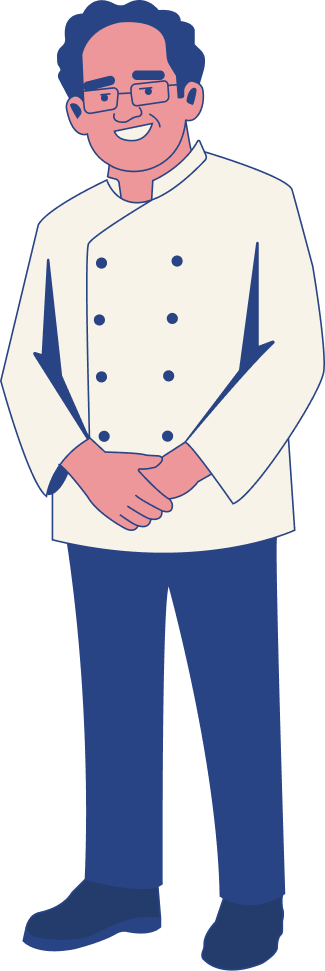
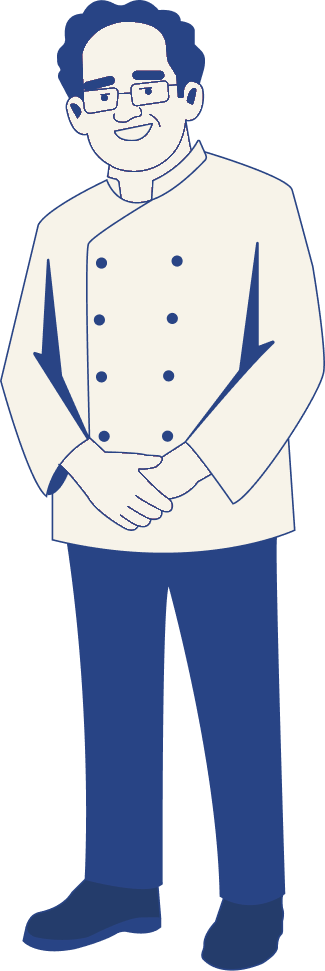
dialogue

Changed region(s): [[0.1846, 0.0, 0.6462, 0.2163], [0.1846, 0.4325, 0.6462, 0.5561]]

diff --git a/src/lib/kitchen/KitchenScene.svelte b/src/lib/kitchen/KitchenScene.svelte
@@ -217,7 +217,7 @@
 
   <div
     class="floor-layer reveal-layer"
-    style={`height: ${scenePx(floorHeight * sceneScale)}; background-size: ${scenePx(floorTileWidth * sceneScale)} ${scenePx(floorHeight * sceneScale)}; background-position-x: ${scenePx(-cameraX)}; --reveal-delay: 160ms; --reveal-duration: 1120ms;`}
+    style={`height: ${scenePx(floorHeight * sceneScale)}; background-size: ${scenePx(floorTileWidth * sceneScale)} ${scenePx(floorHeight * sceneScale)}; background-position-x: ${scenePx(-cameraX)}; --reveal-delay: 160ms; --reveal-duration: 320ms;`}
   ></div>
 
   <div
@@ -382,18 +382,13 @@
 
   .reveal-layer {
     opacity: 0;
-    -webkit-mask-image: linear-gradient(90deg, #000 0 62%, transparent 78%);
-    mask-image: linear-gradient(90deg, #000 0 62%, transparent 78%);
-    -webkit-mask-repeat: no-repeat;
-    mask-repeat: no-repeat;
-    -webkit-mask-size: 260% 100%;
-    mask-size: 260% 100%;
-    -webkit-mask-position: 140% 0;
-    mask-position: 140% 0;
+    scale: 0;
+    transform-origin: 50% 50%;
+    will-change: transform, scale, opacity;
   }
 
   .kitchen-stage.is-loaded .reveal-layer {
-    animation: layerReveal var(--reveal-duration, 820ms) cubic-bezier(0.19, 1, 0.22, 1) var(--reveal-delay, 0ms) forwards;
+    animation: layerReveal var(--reveal-duration, 360ms) cubic-bezier(0.22, 1, 0.36, 1) var(--reveal-delay, 0ms) forwards;
   }
 
   .parallax-layer img {
@@ -413,6 +408,7 @@
     bottom: 0;
     background-image: url('/assets/pavimento_tile.svg');
     background-repeat: repeat-x;
+    transform-origin: 50% 50%;
     pointer-events: none;
   }
 
@@ -435,7 +431,8 @@
   .scene-title span {
     display: inline-block;
     opacity: 0;
-    transform: translate3d(-0.42em, 0.24em, 0) scale(0.82);
+    transform: scale(0.82);
+    transform-origin: 50% 50%;
   }
 
   .kitchen-stage.is-loaded .scene-title span {
@@ -454,11 +451,12 @@
 
   .reveal-object {
     opacity: 0;
-    transform: translate3d(-28px, 18px, 0) scale(0.96);
+    transform: scale(0.92);
+    transform-origin: 50% 50%;
   }
 
   .kitchen-stage.is-loaded .reveal-object {
-    animation: objectPopIn 440ms cubic-bezier(0.22, 1, 0.36, 1) var(--reveal-delay, 0ms) forwards;
+    animation: objectPopIn 360ms cubic-bezier(0.22, 1, 0.36, 1) var(--reveal-delay, 0ms) forwards;
   }
 
   .chef-button img {
@@ -482,8 +480,7 @@
     font-family: var(--font-text);
     text-align: left;
     opacity: 0;
-    transform: translate3d(-14px, 8px, 0);
-    transition: opacity 220ms ease, transform 260ms cubic-bezier(0.22, 1, 0.36, 1);
+    transition: opacity 1ms linear 220ms;
     pointer-events: none;
   }
 
@@ -497,6 +494,12 @@
     background: var(--color-border-primary);
     clip-path: polygon(0 50%, 100% 0, 100% 100%);
     content: '';
+    opacity: 0;
+    scale: 0.72;
+    transform-origin: 100% 50%;
+    transition:
+      opacity 1ms linear 80ms,
+      scale 220ms cubic-bezier(0.22, 1, 0.36, 1) 80ms;
   }
 
   .speech-bubble-copy {
@@ -515,6 +518,9 @@
     font-weight: 400;
     line-height: 1.2;
     word-break: break-word;
+    -webkit-clip-path: inset(0 100% 0 0);
+    clip-path: inset(0 100% 0 0);
+    will-change: clip-path;
   }
 
   .speech-bubble-meta {
@@ -522,7 +528,8 @@
     z-index: 1;
     display: flex;
     align-items: center;
-    min-height: 43px;
+    min-height: 46px;
+    margin-top: -3px;
     padding: 0 clamp(18px, 1.5vw, 19px);
     border-radius: 0 0 var(--radius-s) var(--radius-s);
     background: var(--color-border-primary);
@@ -532,6 +539,9 @@
     font-weight: 700;
     line-height: 1.5;
     white-space: nowrap;
+    -webkit-clip-path: inset(0 100% 0 0);
+    clip-path: inset(0 100% 0 0);
+    will-change: clip-path;
   }
 
   .speech-bubble-meta strong {
@@ -544,7 +554,20 @@
 
   .chef-button.is-dialogue-visible .speech-bubble {
     opacity: 1;
-    transform: translate3d(0, 0, 0);
+    transition-delay: 0ms;
+  }
+
+  .chef-button.is-dialogue-visible .speech-bubble::before {
+    opacity: 1;
+    scale: 1;
+  }
+
+  .chef-button.is-dialogue-visible .speech-bubble-copy {
+    animation: dialogueRevealX 280ms cubic-bezier(0.16, 1, 0.3, 1) 20ms forwards;
+  }
+
+  .chef-button.is-dialogue-visible .speech-bubble-meta {
+    animation: dialogueRevealX 225ms cubic-bezier(0.16, 1, 0.3, 1) 240ms forwards;
   }
 
   .foreground-layer {
@@ -591,18 +614,29 @@
   @keyframes layerReveal {
     0% {
       opacity: 0;
-      -webkit-mask-position: 140% 0;
-      mask-position: 140% 0;
+      scale: 0;
     }
 
-    18% {
+    72% {
       opacity: 1;
+      scale: 0.985;
     }
 
     100% {
       opacity: 1;
-      -webkit-mask-position: 0 0;
-      mask-position: 0 0;
+      scale: 1;
+    }
+  }
+
+  @keyframes dialogueRevealX {
+    from {
+      -webkit-clip-path: inset(0 100% 0 0);
+      clip-path: inset(0 100% 0 0);
+    }
+
+    to {
+      -webkit-clip-path: inset(0 0 0 0);
+      clip-path: inset(0 0 0 0);
     }
   }
 
@@ -616,12 +650,12 @@
   @keyframes objectPopIn {
     0% {
       opacity: 0;
-      transform: translate3d(-28px, 18px, 0) scale(0.96);
+      transform: scale(0.92);
     }
 
     100% {
       opacity: 1;
-      transform: translate3d(0, 0, 0) scale(1);
+      transform: scale(1);
     }
   }
 
@@ -648,7 +682,8 @@
     }
 
     .speech-bubble-meta {
-      min-height: 38px;
+      min-height: 41px;
+      margin-top: -2px;
       padding: 0 14px;
       font-size: 11px;
     }
@@ -661,8 +696,7 @@
   @media (prefers-reduced-motion: reduce) {
     .reveal-layer {
       opacity: 1;
-      -webkit-mask-image: none;
-      mask-image: none;
+      scale: 1;
       animation: none;
     }
 
@@ -671,6 +705,20 @@
       opacity: 1;
       transform: none;
       animation: none;
+    }
+
+    .speech-bubble,
+    .speech-bubble::before,
+    .speech-bubble-copy,
+    .speech-bubble-meta {
+      transition: none;
+      animation: none;
+    }
+
+    .chef-button.is-dialogue-visible .speech-bubble-copy,
+    .chef-button.is-dialogue-visible .speech-bubble-meta {
+      -webkit-clip-path: inset(0 0 0 0);
+      clip-path: inset(0 0 0 0);
     }
   }
 </style>

diff --git a/src/lib/home/HomePage.svelte b/src/lib/home/HomePage.svelte
@@ -47,6 +47,9 @@
     dialogue: string;
     hoverText: string;
     personSrc: string;
+    personNodeId?: string;
+    personFillSrc?: string;
+    personFillNodeId?: string;
     href?: string;
   };
 
@@ -332,7 +335,10 @@
       speaker: 'Stefano Paganini',
       dialogue: 'il mio ruolo ... seguimi nella cucina per saperne di più',
       hoverText: 'io sono stefano paganini seguimi in cucina',
-      personSrc: '/images/stefano-paganini-figma.png',
+      personSrc: '/images/chef-link-outline.svg',
+      personNodeId: '3695:3969',
+      personFillSrc: '/images/chef-link-filled.svg',
+      personFillNodeId: '3695:3926',
       href: '/phaser'
     },
     {
@@ -1375,7 +1381,23 @@
         <p>{item.description}</p>
       </div>
       {#if item.personSrc}
-        <img class="role-person" src={item.personSrc} alt={item.speaker} draggable="false" />
+        <img
+          class="role-person"
+          class:role-person-outline={Boolean(item.personFillSrc)}
+          src={item.personSrc}
+          alt={item.speaker}
+          data-node-id={item.personNodeId}
+          draggable="false"
+        />
+        {#if item.personFillSrc}
+          <img
+            class="role-person role-person-fill"
+            src={item.personFillSrc}
+            alt=""
+            data-node-id={item.personFillNodeId}
+            draggable="false"
+          />
+        {/if}
       {/if}
     {/snippet}
 
@@ -1388,6 +1410,7 @@
           class:is-cucina={item.title === 'cucina'}
           class:is-servizio={item.title === 'servizio'}
           class:has-dialogue={Boolean(item.dialogue)}
+          class:has-person-fill={Boolean(item.personFillSrc)}
           href={item.href}
           onclick={(event) => enterRoleCard(event, item, index)}
           onpointerenter={() => startRoleAudio(item.title)}
@@ -1407,6 +1430,7 @@
           class:is-cucina={item.title === 'cucina'}
           class:is-servizio={item.title === 'servizio'}
           class:has-dialogue={Boolean(item.dialogue)}
+          class:has-person-fill={Boolean(item.personFillSrc)}
           onpointerenter={() => startRoleAudio(item.title)}
           onpointermove={(event) => tiltRoleCard(event, index)}
           onpointerleave={() => {
@@ -2325,6 +2349,7 @@
 
   .role-card-copy {
     position: absolute;
+    z-index: 5;
     top: 50%; left: var(--spacing-5); right: var(--spacing-5);
     display: grid; justify-items: center;
     color: var(--color-text-primary);
@@ -2373,6 +2398,24 @@
     will-change: transform, opacity;
   }
 
+  .role-person-outline,
+  .role-person-fill {
+    height: var(--cucina-person-height, var(--role-person-height));
+  }
+
+  .role-card.has-person-fill .role-person-outline {
+    z-index: 5;
+    opacity: 0.16;
+    transform:
+      translateX(calc(-50% + var(--role-person-base-x, 0px) + var(--role-person-x, 0px)))
+      translateY(calc(var(--role-person-base-y, 0px) + var(--role-person-y, 0px)));
+  }
+
+  .role-person-fill {
+    z-index: 4;
+    opacity: 0;
+  }
+
   .role-card.is-servizio {
     --role-person-base-x: 0px;
     --role-person-base-y: 295px;
@@ -2381,8 +2424,8 @@
 
   .role-card.is-cucina {
     --role-person-base-x: 0px;
-    --role-person-base-y: 0px;
-    --role-person-height: min(60%, 720px);
+    --role-person-base-y: 84px;
+    --role-person-height: min(76%, 860px);
   }
 
   .role-card.is-ufficio {
@@ -2440,6 +2483,16 @@
     transform:
       translateX(calc(-50% + var(--role-person-base-x, 0px) + var(--role-person-x, 0px)))
       translateY(calc(var(--role-person-base-y, 0px) + var(--role-person-y, 0px)));
+  }
+
+  .role-card.has-person-fill:hover .role-person-outline,
+  .role-card.has-person-fill:focus-visible .role-person-outline {
+    opacity: 1;
+  }
+
+  .role-card.has-person-fill:hover .role-person-fill,
+  .role-card.has-person-fill:focus-visible .role-person-fill {
+    opacity: 1;
   }
 
   @media (max-width: 700px) {